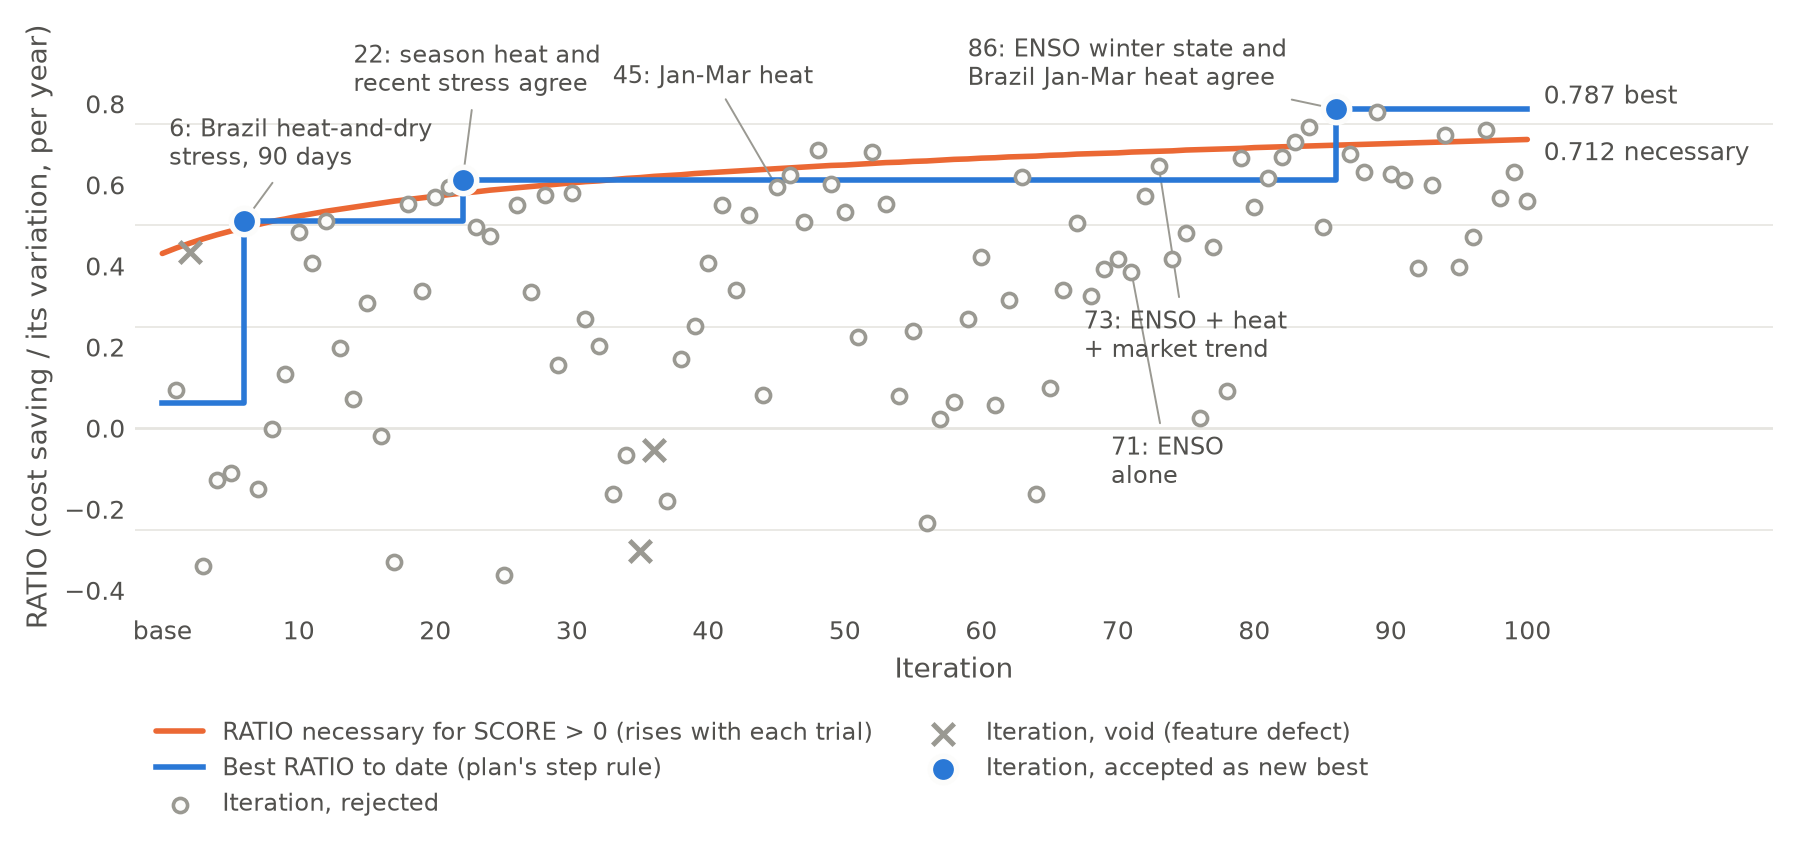
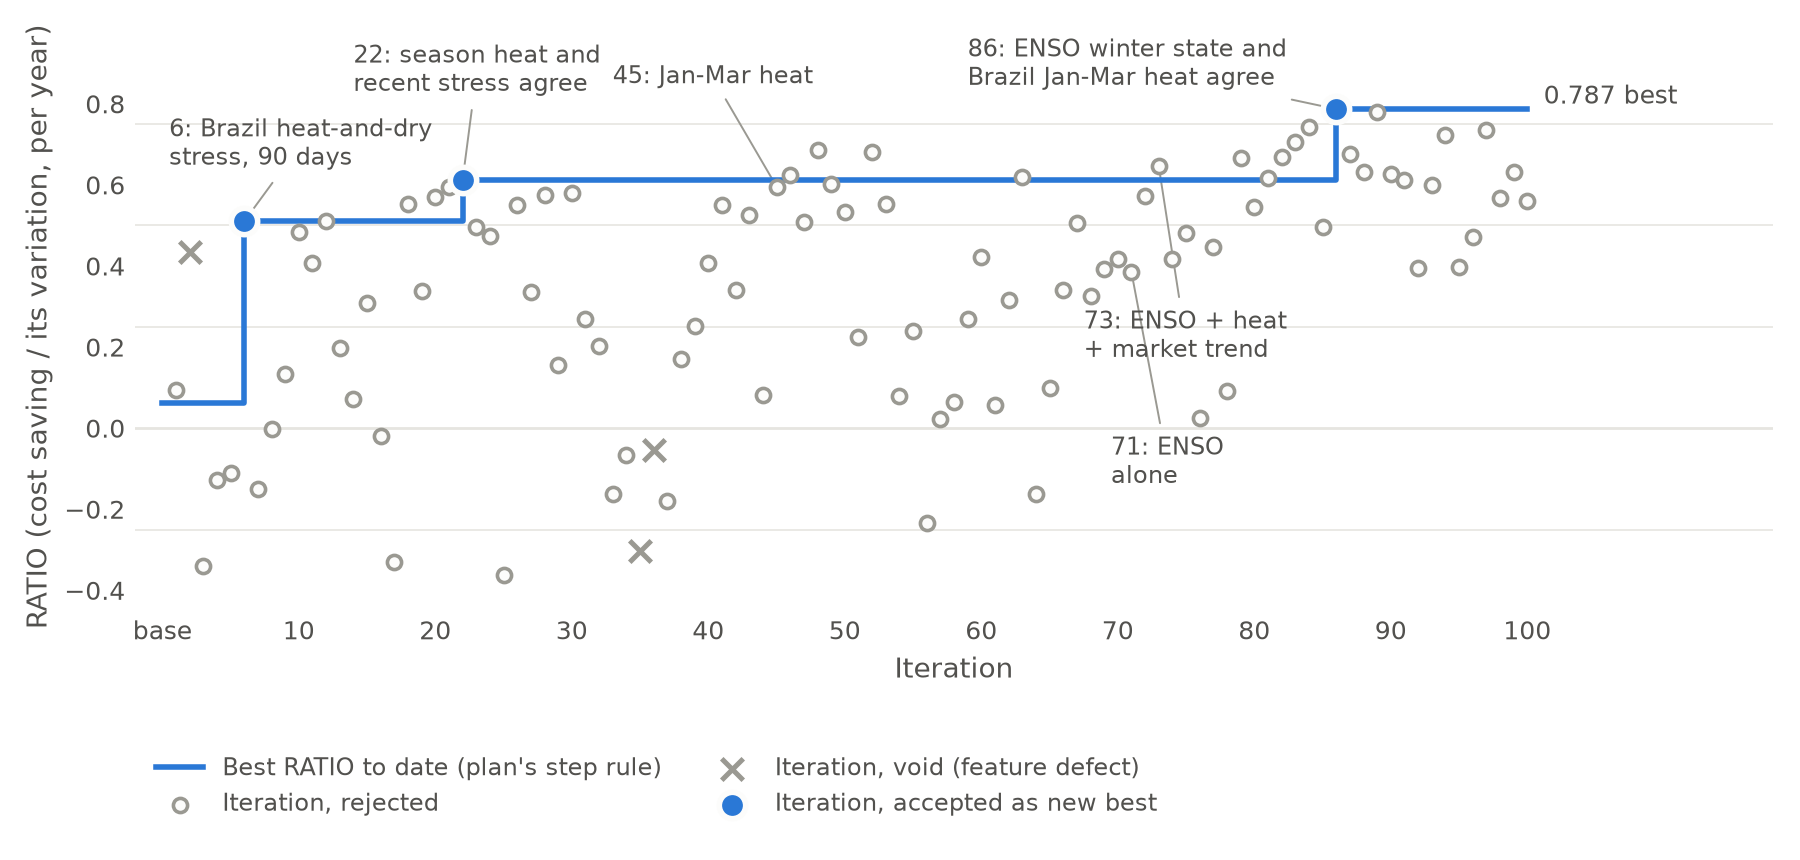
Autoresearch: slide version of the hill-climb graph without the 'RATIO necessary' line
Celine's decision for the deck (15 Nov). The report graph results/hillclimb.png keeps the line, as section 10(b) of
the plan requires.

diff --git a/research/autoresearch/make_report.py b/research/autoresearch/make_report.py
@@ -154,7 +154,7 @@ for v in (-0.25, 0.25, 0.5, 0.75):
     pass
 for v in (-0.25, 0.25, 0.5, 0.75):
     ax.axhline(v, color=GRID, lw=0.6, zorder=1)
-ax.plot(np.r_[0, x], np.r_[core.SE0 * core.emax(10), need], color=ORANGE, lw=2, solid_capstyle="round", zorder=3,
+need_line, = ax.plot(np.r_[0, x], np.r_[core.SE0 * core.emax(10), need], color=ORANGE, lw=2, solid_capstyle="round", zorder=3,
         label="RATIO necessary for SCORE > 0 (rises with each trial)")
 ax.step(np.r_[0, x], np.r_[max(base.values()), best_line], where="post", color=BLUE, lw=2, zorder=4,
         label="Best RATIO to date (plan's step rule)")
@@ -171,7 +171,7 @@ for t in tab:
         txt, (dx, dy) = note[t["iteration"]]
         ax.annotate(txt, (t["iteration"], t["ratio"]), xytext=(t["iteration"] + dx, t["ratio"] + dy), fontsize=8.5, color=INK2,
                     arrowprops=dict(arrowstyle="-", color=MUTE, lw=0.7) if abs(dx) > 1.2 else None, va="center")
-ax.text(101.2, need[-1] - 0.035, f"{need[-1]:.3f} necessary", color=INK2, fontsize=9, va="center")
+need_text = ax.text(101.2, need[-1] - 0.035, f"{need[-1]:.3f} necessary", color=INK2, fontsize=9, va="center")
 ax.text(101.2, best_line[-1] + 0.03, f"{best_line[-1]:.3f} best", color=INK2, fontsize=9, va="center")
 ax.set_xlim(-2, 114); ax.set_ylim(-0.45, 0.95)
 ax.set_xticks([0, 10, 20, 30, 40, 50, 60, 70, 80, 90, 100]); ax.set_xticklabels(["base", "10", "20", "30", "40", "50", "60", "70", "80", "90", "100"])
@@ -185,7 +185,10 @@ ax.set_title("Development years 2009-2022. Best rule (iteration 86): +0.787 agai
 leg = ax.legend(loc="lower left", fontsize=8.5, frameon=False, ncol=2, labelcolor=INK2, bbox_to_anchor=(0.0, -0.33))
 fig.subplots_adjust(left=0.065, right=0.985, top=0.84, bottom=0.25)
 fig.savefig(out / "hillclimb.png", facecolor=SURF)
-# slide version: no title (the slide gives it), white surface, smaller canvas so that text is larger on a slide
+# slide version: no title (the slide gives it), white surface, smaller canvas so that text is larger on a slide.
+# The line "RATIO necessary" is not on the slide version (Celine, 15 Nov). The report graph above keeps it (plan 10b).
+need_line.remove(); need_text.remove(); leg.remove()
+leg = ax.legend(loc="lower left", fontsize=8.5, frameon=False, ncol=2, labelcolor=INK2)
 fig.suptitle(""); ax.set_title("", loc="left"); ax.set_xlim(-2, 118)
 fig.patch.set_facecolor("white"); ax.set_facecolor("white")
 fig.set_size_inches(9.0, 4.3)
